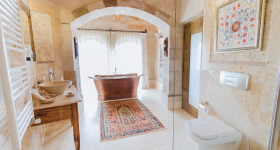
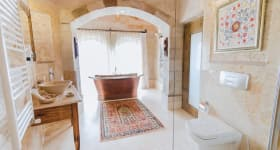
Оптимізував розмір картинок на сайті

diff --git a/app/index.html b/app/index.html
@@ -4,7 +4,7 @@
 <head>
 
 	<meta charset="utf-8">
-	<title>OptimizedHTML 5</title>
+	<title>Кападокія | Відпочинок з комфортом</title>
 	<meta name="description" content="Startup HTML template OptimizedHTML 5">
 	<meta name="viewport" content="width=device-width">
 	<link rel="icon" href="images/favicon.png">
